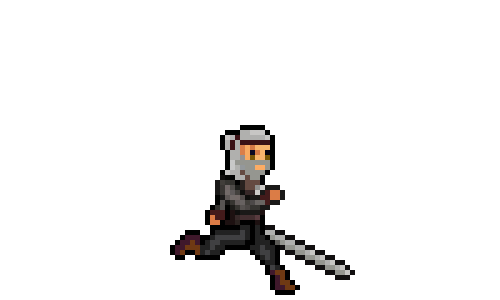
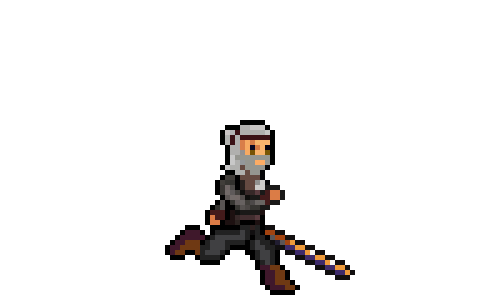
новый меч

Changed region(s): [[0.33, 0.75, 0.72, 0.99], [0.42, 0.39, 0.57, 0.72]]

diff --git a/images.py b/images.py
@@ -99,6 +99,35 @@ mobs_images = {
                      load_image("source/mobs/skeleton/hit/5.png"), load_image("source/mobs/skeleton/hit/6.png"),
                      load_image("source/mobs/skeleton/hit/7.png"), load_image("source/mobs/skeleton/hit/8.png")]
 }
+witcher_images_sword = {
+    "walk_right": [load_image("source/player_sword1/right/2.png"), load_image("source/player_sword1/right/3.png"),
+                   load_image("source/player_sword1/right/2.png"), load_image("source/player_sword1/right/1.png")],
+    "stand_right": [load_image("source/player_sword1/stand_right/1.png"),
+                    load_image("source/player_sword1/stand_right/2.png"),
+                    load_image("source/player_sword1/stand_right/3.png"),
+                    load_image("source/player_sword1/stand_right/4.png"),
+                    load_image("source/player_sword1/stand_right/5.png")],
+    "right_hit": [load_image("source/player_sword1/right_hit/1.png"),
+                  load_image("source/player_sword1/right_hit/2.png"),
+                  load_image("source/player_sword1/right_hit/3.png"),
+                  load_image("source/player_sword1/right_hit/4.png"),
+                  load_image("source/player_sword1/right_hit/5.png")],
+    "left_hit": [load_image("source/player_sword1/left_hit/1.png"), load_image("source/player_sword1/left_hit/2.png"),
+                 load_image("source/player_sword1/left_hit/3.png"), load_image("source/player_sword1/left_hit/4.png"),
+                 load_image("source/player_sword1/left_hit/5.png")],
+    "run": [load_image("source/player_sword1/run/1.png"), load_image("source/player_sword1/run/2.png"),
+            load_image("source/player_sword1/run/3.png"), load_image("source/player_sword1/run/4.png")],
+    "jump": [load_image("source/player_sword1/jump/1.png"), load_image("source/player_sword1/jump/2.png"),
+             load_image("source/player_sword1/jump/3.png"), load_image("source/player_sword1/jump/4.png"),
+             load_image("source/player_sword1/jump/5.png")],
+    "cast": [load_image("source/player_sword1/cast/1.png"), load_image("source/player_sword1/cast/2.png"),
+             load_image("source/player_sword1/cast/3.png"), load_image("source/player_sword1/cast/3.png")],
+    "fire": [load_image("source/player_sword1/magic/fire/1.png"), load_image("source/player_sword1/magic/fire/2.png"),
+             load_image("source/player_sword1/magic/fire/3.png"), load_image("source/player_sword1/magic/fire/4.png"),
+             load_image("source/player_sword1/magic/fire/5.png"), load_image("source/player_sword1/magic/fire/6.png"),
+             load_image("source/player_sword1/magic/fire/7.png"), load_image("source/player_sword1/magic/fire/8.png"),
+             load_image("source/player_sword1/magic/fire/9.png"), load_image("source/player_sword1/magic/fire/10.png")]}
+
 gui_images = {
     "INT": [load_image("source/GUI/int/1.png"), load_image("source/GUI/int/2.png"),
             load_image("source/GUI/int/3.png"), load_image("source/GUI/int/4.png"),

diff --git a/main.py b/main.py
@@ -139,7 +139,7 @@ def play():
     i = Int(gui_group)
     hp = HP(gui_group)
     mp = MP(gui_group)
-    w = Witcher(500, 500, witcher_sprites, mobs_sprites, witcher_images_m)
+    w = Witcher(500, 500, witcher_sprites, mobs_sprites, witcher_images_sword)
     m = Mage(-1000, 500, 5, mobs_sprites)
     d = Drowner(2500, 500, 7, mobs_sprites)
     s = Skeleton(1900, 500, 3, mobs_sprites)
